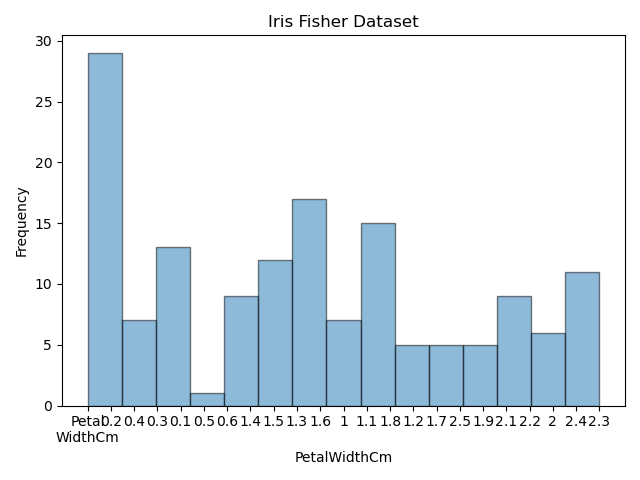
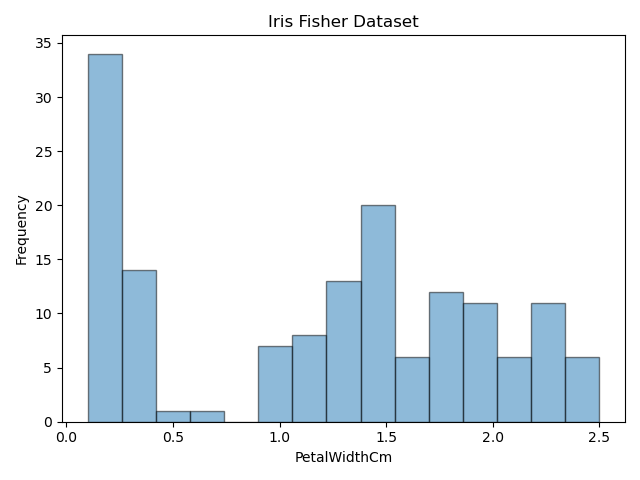
Iris Data

diff --git a/analysis.py b/analysis.py
@@ -5,9 +5,10 @@
 import pandas as pd
 import numpy as np
 import matplotlib.pyplot as plt
+import seaborn as sns
 
 """Read in the Iris data set"""
-iris = pd.read_csv("Iris.csv", names=["SepalLengthCm", "SepalWidthCm", "PetalLengthCm", "PetalWidthCm", "Species"])
+iris = pd.read_csv("Iris.csv", names=["SepalLengthCm", "SepalWidthCm", "PetalLengthCm", "PetalWidthCm", "Species"], header = 0)
 
 
 """Create a summary of the data set using the describe method and output the statistical data into a .txt file"""
@@ -27,6 +28,12 @@ for col in iris.columns[:-1]:  # Skip the last column (Species)
     plt.ylabel('Frequency')
     plt.tight_layout()  
     plt.savefig(f'{col}.png')
-    plt.clf()  
+    plt.clf()
+    
 
+sns.scatterplot(x='SepalLengthCm', y='SepalWidthCm', hue = 'Species' ,data=iris, x_bins = 15 , y_bins= 15)
+plt.title('Sepal Length v Sepal Width')
+plt.savefig(f'Sepal Length v Width.png')    
 
+sns.pairplot(iris, hue = 'Species')
+plt.savefig(f' Pairplot Sepal Length v Width.png')   

diff --git a/README.md b/README.md
@@ -1,7 +1,18 @@
 # pands-project
+
 Fisher's Iris
 
 The Iris Fisher data set is composed of 150 observations, with 50 samples from each of the three species of Iris flowers
-Iris setosa, Iris virginica, and Iris versicolor. 
+Iris setosa, Iris virginica, and Iris versicolor. For each sample, four features were measured the length and width of both the sepals and petals in centimetres.
 
-For each sample, four features were measured the length and width of both the sepals and petals in centimetres.
+Analysis of Visuals
+When plotting the sepal length versus the sepal width, we can gain insights into the relationship between these two features and how they may differ across the different species in the dataset.
+
+The scatter plot reveals that there is a positive correlation between sepal length and sepal width, meaning that as the length of the sepal increases, so does the width. However, the relationship is not perfectly linear, and there is some variability in the data.
+
+The three different species in the dataset can also be distinguished by their distribution in the scatter plot. The Setosa species appears to have the smallest sepal length and width, while the Versicolor and Virginica species have longer and wider sepals.
+
+Furthermore, there is some overlap in the measurements between the Versicolor and Virginica species, which may make it more difficult to accurately distinguish between the two based on sepal length and width alone.
+
+Overall, the scatter plot of sepal length versus sepal width provides useful insights into the Iris dataset and the different species within it. However, it is important to keep in mind that other features, such as petal length and width, may also be important for accurately classifying the different species.
+
